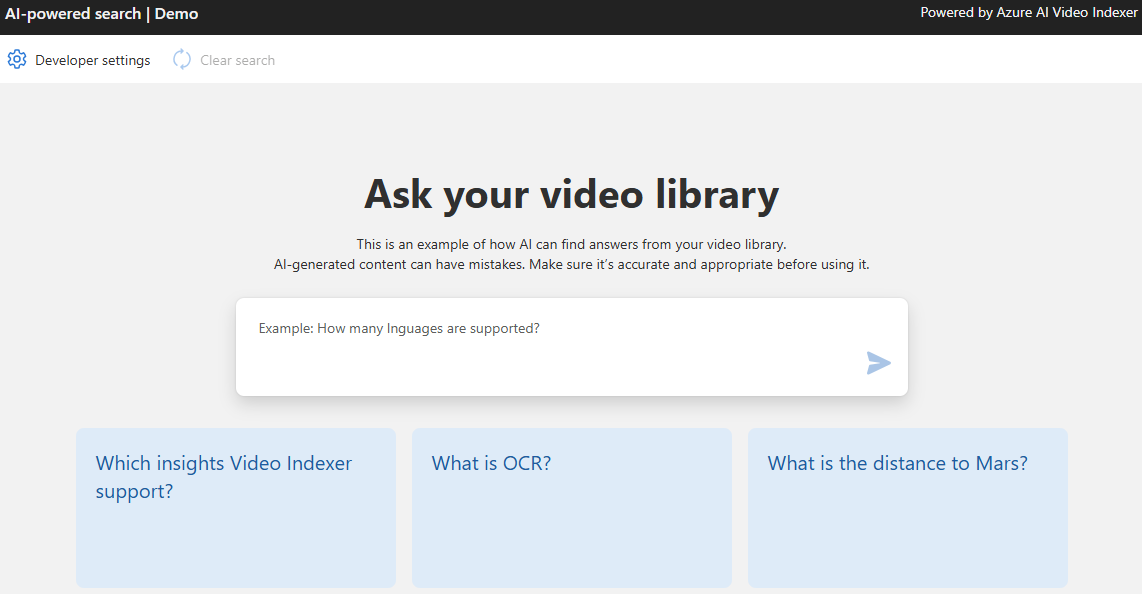
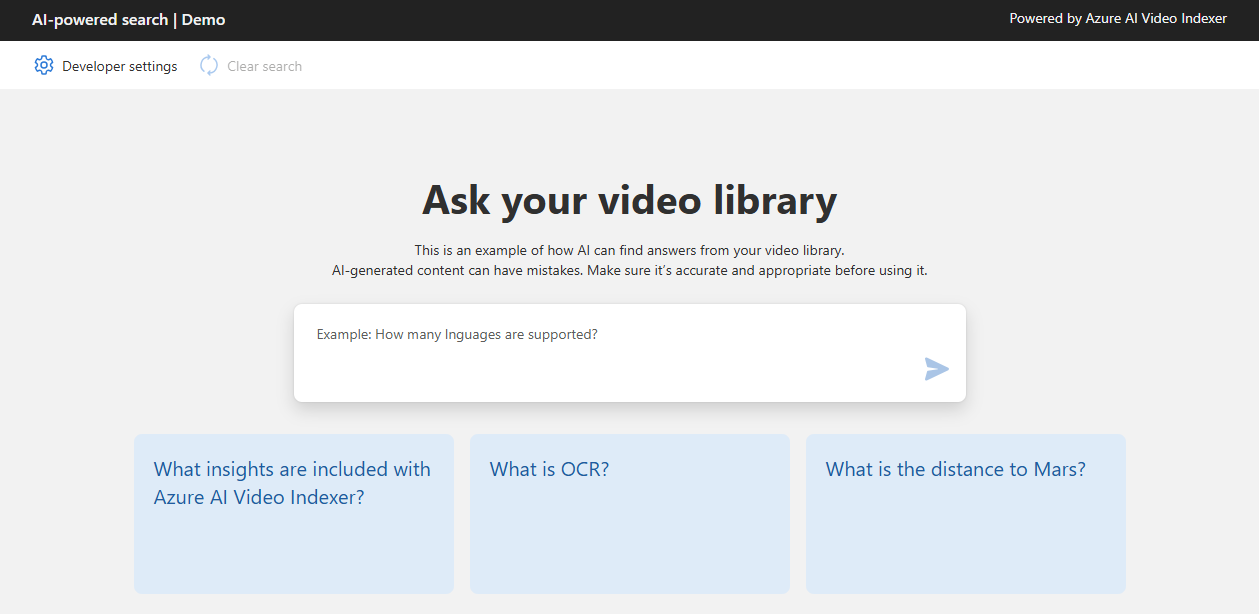
udpate question

diff --git a/VideoQnA-Demo/app/frontend/src/components/Example/ExampleList.tsx b/VideoQnA-Demo/app/frontend/src/components/Example/ExampleList.tsx
@@ -9,8 +9,8 @@ export type ExampleModel = {
 
 const EXAMPLES: ExampleModel[] = [
     {
-        text: "Which AI Insights can Video Indexer detect?",
-        value: "Which AI Insights can Video Indexer detect?"
+        text: "What insights are included with Azure AI Video Indexer?",
+        value: "What insights are included with Azure AI Video Indexer?"
     },
     {
         text: "What is OCR?",

diff --git a/VideoQnA-Demo/README.md b/VideoQnA-Demo/README.md
@@ -14,12 +14,6 @@ The repo includes sample data so it's ready to try end-to-end. The sample we use
 * Player integration to jump directly to the answer relevant part in the video.
 
 
-<!-- Change the text in the interface -->
-<!-- Change from "Which insights Video Indexer support?" to "What insights are included with Azure AI Video Indexer?" -->
-<!--
-![Chat screen](docs/qa_ui.png)
--->
-
 ## Getting Started
 
 **IMPORTANT:** To deploy and run this example, you must have an **Azure subscription with access enabled for the Azure OpenAI service**. You can request access [here](https://aka.ms/oaiapply). You can also visit [this page](https://azure.microsoft.com/free/cognitive-search/) to get some free Azure credits to get you started.
@@ -34,7 +28,7 @@ The repo includes sample data so it's ready to try end-to-end. The sample we use
 - [Azure Developer CLI](https://aka.ms/azure-dev/install)
 - [Python 3+](https://www.python.org/downloads/)
     - **Important**: Python and the pip package manager must be in the path in Windows for the setup scripts to work.
-    - **Important**: Ensure you can run `python --version` from console to check that you have the correct version. 
+    - **Important**: Ensure you can run `python --version` from console to check that you have the correct version.
     - **Important**: On Ubuntu, you might need to run `sudo apt install python-is-python3` to link `python` to `python3`.
 - [Node.js](https://nodejs.org/en/download/)
 - [Git](https://git-scm.com/downloads)
@@ -53,7 +47,7 @@ The repo includes sample data so it's ready to try end-to-end. The sample we use
 1. **Set up Azure AI Search**
 
    1. Change pricing tier to Basic.
-      
+
       ![basic tier](docs/create_search_service.png)
 
    1. Enter the newly created resource, and note the API key under Settings > Keys, to be used later in the process. You will use the admin key for write permissions to create new indexes.
@@ -65,7 +59,7 @@ The repo includes sample data so it's ready to try end-to-end. The sample we use
    1. Create Azure OpenAI instance.
    1. Create model deployments:
       1. text-embedding-ada-002 for embeddings
-      1. gpt3.5 turbo or gpt4 turbo or gpt-4o as the LLM model. 
+      1. gpt3.5 turbo or gpt4 turbo or gpt-4o as the LLM model.
    1. Note the deployment names to be used later in the process.
    1. Note API key under Resource management -> Keys and Endpoint to be used later in the process.
 
@@ -95,9 +89,9 @@ The repo includes sample data so it's ready to try end-to-end. The sample we use
      1. Install python dependencies with:
 
          `pip install -r .\app\backend\requirements.txt`
-     
+
      1. Create a `.env` file that holds your Azure AI Video Indexer details (taken from Azure portal) in the following format:
-        
+
         ```
         AccountName='YOUR_VI_ACCOUNT_NAME'
         ResourceGroup='RESOURCE_GROUP_NAME'
@@ -125,11 +119,11 @@ The repo includes sample data so it's ready to try end-to-end. The sample we use
 
 ## Troubleshooting
 
-If you see this error while running `azd deploy`: 
+If you see this error while running `azd deploy`:
 
-   `read /tmp/azd1992237260/backend_env/lib64: is a directory` 
+   `read /tmp/azd1992237260/backend_env/lib64: is a directory`
 
-delete the `./app/backend/backend_env folder` and re-run the `azd deploy` command.  
+delete the `./app/backend/backend_env folder` and re-run the `azd deploy` command.
 
 This issue is being tracked here: https://github.com/Azure/azure-dev/issues/1237
 
